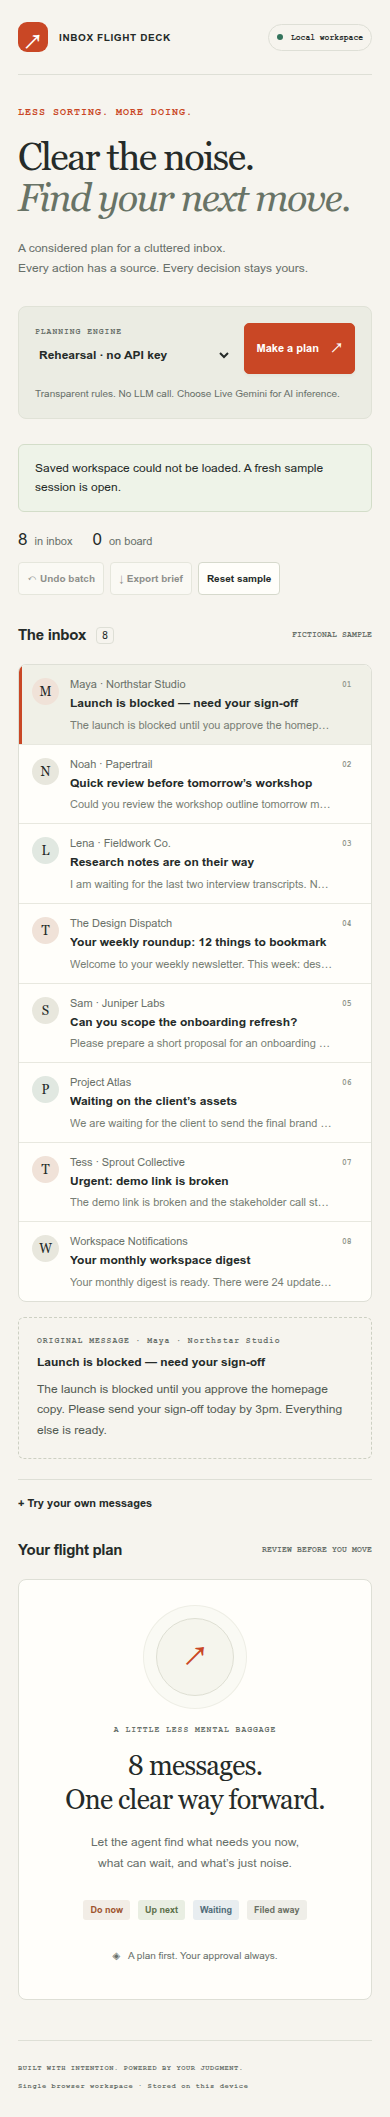
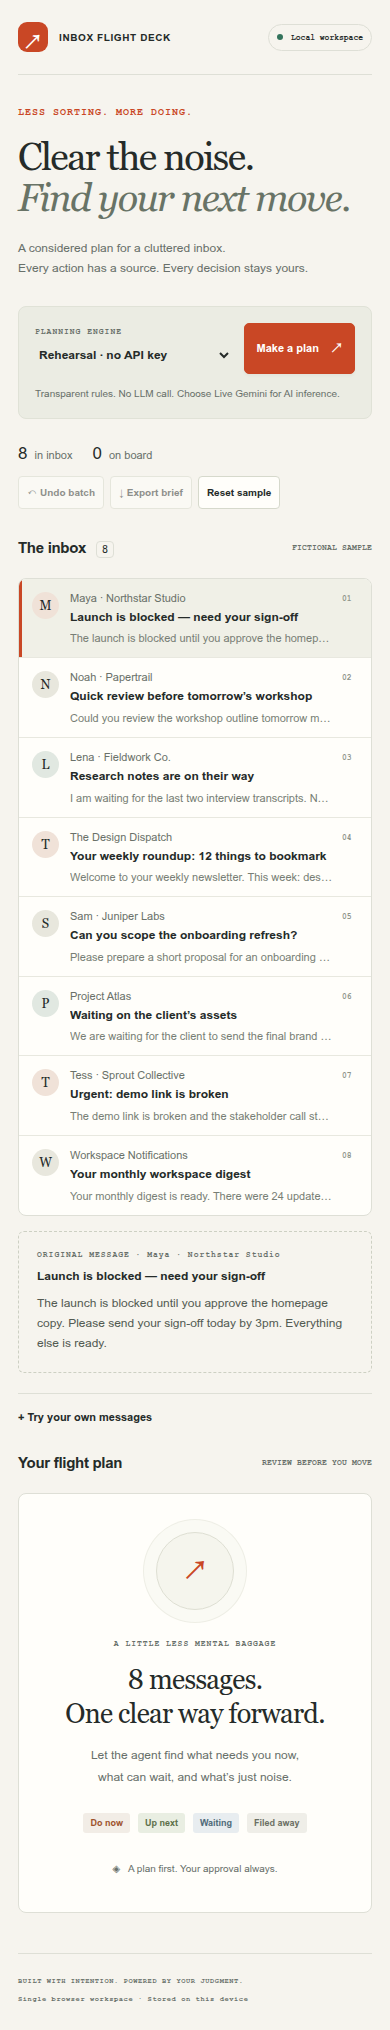
Prepare hackathon submission and public handoff

diff --git a/devpost/app-map.html b/devpost/app-map.html
@@ -1,0 +1,27 @@
+<!doctype html>
+<html lang="en">
+<head><meta charset="utf-8"><meta name="viewport" content="width=device-width, initial-scale=1"><title>Inbox Flight Deck — App Map</title>
+<style>
+:root{font-family:Arial,sans-serif;color:#252b29;background:#f6f4ee}*{box-sizing:border-box}body{max-width:980px;margin:0 auto;padding:45px 24px}h1{font-family:Georgia,serif;font-weight:400;font-size:43px;letter-spacing:-1px;margin:14px 0}h2{font-size:19px;margin:32px 0 15px}p,li{font-size:14px;line-height:1.8;color:#535d52}a{color:#b43d20}a:focus-visible,summary:focus-visible{outline:3px solid #c94725;outline-offset:3px}.label{font-family:monospace;letter-spacing:2px;font-size:11px;color:#c94725}.flow{display:flex;gap:14px;align-items:stretch;margin:28px 0}.node{flex:1;border:1px solid #d9ddd0;border-top:3px solid #c94725;border-radius:7px;background:#fffefa;padding:20px}.node strong{display:block;font-size:15px;line-height:1.5}.node span{display:block;font-size:12px;line-height:1.7;margin-top:8px;color:#626c5d}.arrow{align-self:center;font-size:25px;color:#c94725}details{border:1px solid #d9ddd0;border-radius:6px;padding:17px;margin:12px 0;background:#fffefa}summary{cursor:pointer;font-size:14px;font-weight:600}code{font-family:monospace;background:#e9ece1;padding:2px 5px;font-size:12px;overflow-wrap:anywhere}.note{border-left:3px solid #c94725;padding:12px 18px;background:#efeee5}footer{border-top:1px solid #d9ddd0;margin-top:35px;padding-top:15px;font-size:12px;color:#626c5d}@media(max-width:650px){.flow{flex-direction:column}.arrow{transform:rotate(90deg)}h1{font-size:34px}body{padding:25px 18px}}
+</style></head>
+<body>
+<div class="label">REFERENCE GUIDE / OFFLINE / NO TRACKING</div>
+<h1>From inbox noise to a chosen next step.</h1>
+<p>Inbox Flight Deck asks Gemini for a plan, verifies its source quotes, and lets a person choose which decisions become local board entries. Rehearsal uses clearly labeled rules. This map is a reference route; it does not claim an owner-led code tour was performed.</p>
+<div class="flow" role="img" aria-label="Request a plan, validate evidence, review and apply to local board">
+<div class="node"><strong>1. Request</strong><span>Click Make a plan.<br><code>App.tsx → makePlan</code><br>The current inbox goes to the local Node API.</span></div><span class="arrow" aria-hidden="true">→</span>
+<div class="node"><strong>2. Check</strong><span>Generate bounded decisions.<br><code>agent.ts → validatePlan</code><br>Reject wrong IDs, missing decisions or invented source quotes.</span></div><span class="arrow" aria-hidden="true">→</span>
+<div class="node"><strong>3. Choose &amp; apply</strong><span>Review, adjust and select.<br><code>board.ts → applyDecisions</code><br>Update the board and retain a snapshot for undo.</span></div>
+</div>
+<h2>Follow one action through three stops</h2>
+<details open><summary>Stop 1 — Visible input and feedback</summary><p>Open <a href="../src/App.tsx">src/App.tsx</a>, find <code>makePlan</code>. It submits the current inbox and selected engine to <code>/api/plan</code>, shows loading or error state, and populates review cards. Find <code>decisionCard</code> to see the source quote, checkbox and category dropdown.</p></details>
+<details><summary>Stop 2 — Model output earns a preview</summary><p>Open <a href="../src/agent.ts">src/agent.ts</a>, find <code>geminiPlan</code> and <code>validatePlan</code>. The former calls Google with a JSON schema; the latter checks every ID and exact body substring. <a href="../src/server.ts">src/server.ts</a> connects them to the API. The model cannot directly mutate the board or send mail.</p></details>
+<details><summary>Stop 3 — Selected decisions become a reversible transaction</summary><p>Open <a href="../src/board.ts">src/board.ts</a>, find <code>applyDecisions</code>. It validates decisions again, moves the selected source messages into board entries and saves the previous snapshot. <code>undoSession</code> restores it. The browser's <code>localStorage</code> keeps the session; <code>exportBrief</code> turns the reviewed board into Markdown.</p></details>
+<h2>To change this, start here</h2>
+<ul><li>Sample scenario: <a href="../src/sample.ts">src/sample.ts</a> → <code>sampleMessages</code>.</li><li>Visual identity or spacing: <a href="../src/style.css">src/style.css</a> → CSS variables and responsive rules.</li><li>AI behavior: <a href="../src/agent.ts">src/agent.ts</a> → system instruction and <code>responseJsonSchema</code>. Keep evidence checks.</li><li>Import limits or decision categories: <a href="../src/shared.ts">src/shared.ts</a> → shared schemas and <code>parseInbox</code>. Update UI and tests together.</li><li>Apply/undo behavior: <a href="../tests/board.test.ts">tests/board.test.ts</a> → subset and exact-restore checks.</li></ul>
+<h2>A practice to reuse</h2>
+<p class="note">Translate a product claim into an observable invariant. Here, “only approved changes happen” becomes “one deselected proposal stays in the inbox; undo restores the exact prior snapshot.” <a href="../tests/board.test.ts">Board tests</a> check the transaction, and <a href="../tests/browser.mjs">the production browser test</a> checks the same promise on screen. Exact quotes prove provenance; they do not prove a model's judgment is correct.</p>
+<h2>Run it again</h2>
+<p>From the repository: <code>npm ci</code>, <code>npm run build</code>, <code>npm start</code>. Open <a href="http://localhost:3000">localhost:3000</a>. No key is needed for rehearsal. Live mode requires a server-side Gemini key; see <a href="../README.md">README</a>.</p>
+<footer>Code snapshot: <code>851331b</code>. This guide can drift if source changes. All essential content works offline without scripts. No personal learner profile is included.</footer>
+</body></html>

diff --git a/SUBMISSION-KIT.md b/SUBMISSION-KIT.md
@@ -1,0 +1,86 @@
+# Submission kit — PW / Schultzenator
+
+Agent implementation handoff: **COMPLETE after the verification and publication evidence in WORK-STATE.md**. Submission itself remains with the owner/PW. Final video URL is intentionally owner-provided.
+
+## Where and when
+
+- Event: https://learn-ai-basics.devpost.com/
+- Official rules, checked at build start: https://learn-ai-basics.devpost.com/rules
+- Deadline: **Monday, October 26, 2026, 5:00 PM EDT = 21:00 UTC = 22:00 Warsaw**.
+- Account: **Schultzenator**. Join the hackathon if not already registered, then create/complete the project entry.
+- Public source: **https://github.com/Schultzenator/build-with-ai-basics-2026**
+- License: MIT.
+- Video URL: **[PW: REPLACE WITH PUBLIC YOUTUBE OR VIMEO LINK]**
+- App URL: local application; no hosted deployment claimed. Use repository as code link, not as a live demo URL.
+
+The authenticated submission form was not accessed in this session. The sections below map to common Devpost fields; follow the actual current labels and any required prompts. PW supplies truthful personal/organization details and exit-survey answers.
+
+## Project name
+
+Inbox Flight Deck
+
+## Elevator pitch
+
+An inbox triage agent that turns message chaos into a source-backed action plan you review, apply and undo.
+
+## About the project — paste-ready draft
+
+The owner explicitly requested this draft. Review it for accuracy before publishing, and add personal learning reflections in your own words.
+
+### Inspiration
+
+For an independent consultant, one inbox can hold a launch blocker, a request for next week, a dependency on a client, and a newsletter. The practical problem is deciding what deserves attention while keeping the original context close enough to check.
+
+### What it does
+
+Inbox Flight Deck turns sample or pasted messages into four lanes: Do now, Up next, Waiting, and Filed away. In live mode, a Gemini agent proposes a concrete next action and rationale for each message. Every proposal includes an exact source quote that the server verifies against the original message body.
+
+The person reviews the plan, changes categories if needed, and selects which decisions to apply. Those decisions move to a local action board; unselected messages stay in the inbox. The board survives a reload, exports a Markdown brief with evidence, and supports undoing the last batch. The proof of concept never sends replies or deletes mail.
+
+### How it was built
+
+The project started in a new empty folder during the submission window. Codex was the coding agent. The Devpost Learn Skill Pack was installed and used to structure scope, product requirements, technical specification, implementation slices, verification and shipping. Planning documents were committed before application code. The owner delegated concept selection and implementation; workflow adaptations are disclosed in the repository.
+
+The stack is TypeScript, Node.js, Express, React, Vite and Zod. A server-side Gemini call returns structured decisions. Validation rejects invented or duplicate message IDs, missing decisions and quotes that do not occur in the source. A separate deterministic rehearsal mode is visibly labeled and works without credentials. Source and fictional sample data were created for this project; standard dependencies and the required Skill Pack are disclosed.
+
+### Challenges
+
+One real integration issue was model availability: the initial Gemini 2.5 endpoint rejected new-user access and recommended Gemini 3.8 Flash. The model was changed and checked with a real API call before handoff. Another design constraint was separating an AI proposal from execution: selecting and applying a batch is a distinct human action, and the prior state remains available for undo.
+
+### Accomplishments
+
+The implemented loop runs from inbox to validated plan to selected board changes, export and undo. Verification covers strict typechecking, planner/API/transaction tests, a production Chrome journey, mobile layout and a real Gemini-backed browser journey. Exact results are documented in the repository rather than presented as performance or user-study claims.
+
+### What was learned
+
+**[OWNER: replace this paragraph with your own truthful reflection before submission. Suggested topics to address: which planning decision mattered; what you personally reviewed or changed; what the model-access issue taught you. Do not claim hands-on steps you did not perform.]**
+
+### What's next
+
+Possible extensions are a read-only mailbox connector, better handling of relative deadlines, and richer review controls. They are not part of the current proof of concept.
+
+## Built with
+
+TypeScript, Node.js, React, Express, Vite, Zod, Google Gemini API, Gemini 3.8 Flash, Codex, Devpost Learn Skill Pack, Playwright.
+
+## Testing instructions
+
+Requires Node.js 22+. From the public repository: `npm ci`, `npm run build`, `npm start`; open http://localhost:3000. Rehearsal works without credentials. Make a plan, inspect a quote, uncheck one proposal, apply seven decisions, export, reload, and undo. Configure server-side `GEMINI_API_KEY` in `.env` and restart to enable Live Gemini. Never paste a key into Devpost. The recorded video must show the working project because reviewers may judge without running the repository.
+
+## Images
+
+Use the actual app screenshots in `docs/screenshots/`. Recommended: `01-inbox.png`, `05-live-gemini.png`, and `03-board.png`. They contain fictional sample data. The screenshots are evidence, not a replacement for the video.
+
+## PW's final checklist
+
+- [ ] Open the repository logged out; verify planning docs and MIT license are visible.
+- [ ] Follow the three startup steps and perform the core loop yourself.
+- [ ] Read the workflow adaptations; confirm submission statements match your actual participation.
+- [ ] Replace the personal learning placeholder; complete all required form and exit-survey answers truthfully.
+- [ ] Record 1–3 minutes in English, below 3 minutes, showing the functioning app; see `DEMO.md`.
+- [ ] Upload publicly to YouTube or Vimeo and check playback logged out.
+- [ ] Replace the video placeholder above and paste the real video/repository URLs into Devpost.
+- [ ] Confirm entrant details and eligibility. Rules allow individuals, teams and organizations subject to country/conflict exclusions; this does not certify any particular organization. An organization/team must authorize its representative.
+- [ ] Submit before the deadline and retain confirmation. Keep source and video available through judging ending October 30, 2026 at 5:00 PM EDT.
+
+No Devpost entry, learner survey, organization representation, recording or final submission was completed by the agent.

diff --git a/README.md b/README.md
@@ -1,0 +1,90 @@
+# Inbox Flight Deck ↗
+
+**Clear the noise. Find your next move.**
+
+A small TypeScript/Node inbox triage agent for independent consultants. Turn mixed messages into a plan with **verbatim source evidence**, adjust the categories, apply only the decisions you choose, export a brief, and undo a whole batch.
+
+![Inbox Flight Deck running locally](docs/screenshots/01-inbox.png)
+
+## Run in three steps
+
+Prerequisite: **Node.js 22+**. From this repository:
+
+1. `npm ci`
+2. `npm run build`
+3. `npm start` — open **http://localhost:3000**.
+
+Choose **Make a plan**. Rehearsal mode needs no credentials and labels itself as deterministic rules, with no LLM call. The eight sample messages are fictional. This is a local app; no mailbox is connected and no emails are sent or deleted.
+
+## Use the real AI agent
+
+Create `.env` from [.env.example](.env.example), set `GEMINI_API_KEY` locally, and restart the server. Choose **Live Gemini** before requesting a plan. The default model is `gemini-3.8-flash`; override with `GEMINI_MODEL` if needed for your account. Messages go to Google only when you explicitly request a live plan. Credentials stay on the Node server, outside source control and the browser bundle. API usage is subject to your account's billing and limits.
+
+Real Gemini inference and the production browser journey were verified on 2026-10-23. See [verification evidence](docs/VERIFICATION.md). A live failure is shown explicitly; there is no silent fallback to rehearsal.
+
+## Try the complete loop
+
+1. Make a plan. Read the action, rationale and source quote; **Inspect original** shows the source message.
+2. Uncheck a decision and change a category. **Apply N decisions** moves only those messages to your local board.
+3. **Export brief**, reload, then **Undo batch**. The prior inbox and board return, including across reloads.
+
+**Try your own messages** accepts blank-line-separated text blocks; the first line is the subject. Limit: 20 messages, 6,000 characters each and 24,000 total including metadata. Import replaces the session and its undo history; non-sample sessions require confirmation. **Reset sample** restores the fictional inbox, with confirmation if it would replace your work.
+
+Browser storage holds this workspace on the same origin. Use one tab; this proof of concept does not synchronize concurrent tabs or devices. Storage errors are surfaced and the app can continue in memory. Original inbox text is retained with board decisions. Export or reset when done; this is not an encrypted mailbox client.
+
+## How the agent works
+
+```mermaid
+flowchart LR
+  A[Sample or pasted inbox] --> B[Node planner]
+  B --> C[Gemini structured plan]
+  B --> D[Labeled rehearsal rules]
+  C --> E[Validate IDs and exact quotes]
+  D --> E
+  E --> F[Human review and category edits]
+  F --> G[Apply selected local changes]
+  G --> H[Export or undo]
+```
+
+The model returns bounded JSON, one decision per message: `now`, `next`, `waiting`, or `archive`. The server rejects missing, repeated or invented IDs and quotes that do not occur exactly in the corresponding message body. The person can still disagree with the model: exact evidence establishes provenance, not correct judgment. The deterministic executor can only update the local board after selection.
+
+## Development and verification
+
+```sh
+npm run dev           # same URL, Vite middleware and Node API
+npm run check         # strict typecheck, unit/API tests, production build
+npm run test:browser  # production browser journey, after npm run build
+npm run test:live     # optional real Gemini call; requires server-side key
+```
+
+Browser checks use system Chrome at `/usr/bin/google-chrome`, or `CHROME_PATH`, or Playwright Chromium (`npx playwright install chromium`). To include a real API call in that journey on Linux/macOS: `LIVE_BROWSER=1 npm run test:browser`. Ordinary tests do not call external APIs. `PORT=3001 npm start` chooses another port.
+
+If a restricted runner has a broken temporary directory, prefix commands with `TMPDIR=/tmp` (Linux/macOS). Production `npm start` does not require tsx. For browser tests, `TEST_PORT` selects their isolated server port (default 4173).
+
+## Plan-first provenance
+
+Built from a newly created **empty folder on 2026-10-23**, during the hackathon submission window. No existing project code was reused. Devpost Learn Skill Pack was installed with `npx skills add challengepost/learn-ai-basics --all -y`; its canonical files are in [.agents/skills](.agents/skills), with upstream MIT notice. Planning was committed before application code.
+
+- [Scope](devpost/scope.md) · [PRD](devpost/prd.md) · [Technical spec](devpost/spec.md)
+- [Build checklist and revisions](devpost/checklist.md) · [Offline app map](devpost/app-map.html)
+- [Workflow provenance and adaptations](docs/WORKFLOW.md)
+- [Demo recording guide](DEMO.md) · [Submission kit for PW](SUBMISSION-KIT.md) · [Work state](WORK-STATE.md)
+
+The owner explicitly delegated concept selection and autonomous implementation. Interactive interview/review steps were adapted to that instruction and are documented honestly; no learner hands-on review, personal reflection or submitted video is claimed.
+
+## Install at the originally requested location
+
+This session's writable roots excluded `/home/schultze/Factory/HCTN/`. Source was created in a new empty workspace child directory instead. On the owner's machine, with write access and the destination absent:
+
+```sh
+git clone https://github.com/Schultzenator/build-with-ai-basics-2026.git /home/schultze/Factory/HCTN/build-with-ai-basics-2026
+cd /home/schultze/Factory/HCTN/build-with-ai-basics-2026
+```
+
+Then follow the three startup steps. Cloning preserves the original planning-first history; it does not reuse an old project.
+
+## Attribution and license
+
+New application code, fictional data, CSS and SVG were created for this entry with Codex. Standard dependencies are recorded in `package-lock.json`; their respective licenses apply. The pre-existing **Devpost Learn Skill Pack** is the required development curriculum, credited in [THIRD-PARTY-NOTICES.md](THIRD-PARTY-NOTICES.md). No external images, fonts, music or existing application code are included.
+
+Application: [MIT](LICENSE).

diff --git a/docs/VERIFICATION.md b/docs/VERIFICATION.md
@@ -1,0 +1,48 @@
+# Verification evidence
+
+Verified on **2026-10-23**, Node **v22.22.1**, Linux, production build in system Chrome. Commands below were actually run; no coverage percentage or user-impact measurement is claimed.
+
+| Check | Result | Evidence |
+| --- | --- | --- |
+| `npm run typecheck` | PASS | Strict TypeScript check for application and TypeScript tests |
+| `npm test` | PASS, 13 tests | `tests/agent.test.ts`, `tests/api.test.ts`, `tests/board.test.ts` |
+| `npm run build` | PASS | Vite client and compiled Node server |
+| `npm run test:browser` | PASS | Production server plus Chrome, no external provider required |
+| `GEMINI_MODEL=gemini-3.8-flash npm run test:live` | PASS | Eight decisions, all exact quotes validated, 10,995 ms in the recorded smoke run |
+| `LIVE_BROWSER=1 npm run test:browser` | PASS | Real Gemini request from browser → preview → apply eight → undo |
+| npm install audit | PASS | 0 reported vulnerabilities at install time |
+
+The restricted runner required `TMPDIR=/tmp` for tools using temporary files. A pre-install typecheck attempt failed because dependencies were still downloading; verification was repeated after installation. The original Gemini 2.5 endpoint returned 404 with a recommendation to use 3.8 Flash. The default was updated, then tested successfully; neither error was hidden by rehearsal output.
+
+## Unit and API coverage
+
+- Rehearsal classifications and exact source quotes.
+- Invalid, missing, repeated and invented message IDs/evidence; malformed decisions.
+- Text import boundaries, duplicate IDs and input limits.
+- Structured Gemini request and real-shaped provider response parsing with mocked network.
+- Provider quota, timeout/network and malformed/incomplete output errors.
+- API health without key leakage; JSON, size, local-host and origin checks.
+- Provider failure stays an error and never silently returns rehearsal data.
+- Selected transaction, untouched unselected messages and exact undo.
+- Reloadable session and undo history; modified categories; stale/invalid actions.
+- Corrupt saved data rejection and Markdown brief contents/escaping.
+
+## Browser journey
+
+The production Chrome run verifies source inspection, eight preview cards, category editing, excluding a newsletter, applying seven decisions, 1/7 inbox/board counts, persistence after reload, a real Markdown download, undo restoring 8/0, applying everything, empty state, reset confirmation, pasted text, escaped HTML, input/provider failures and corrupt storage recovery. At **390px**, document width does not exceed viewport width. No page JavaScript errors were observed.
+
+The optional live browser run additionally selects Live Gemini, waits for eight source-backed decisions, verifies the live engine badge, applies all eight, and undoes to restore the inbox. Live model output and timing can vary between runs.
+
+## Visual evidence
+
+- [Initial inbox](screenshots/01-inbox.png)
+- [Rehearsal plan](screenshots/02-plan.png)
+- [Reviewed action board](screenshots/03-board.png)
+- [Mobile layout](screenshots/04-mobile.png)
+- [Actual Gemini plan](screenshots/05-live-gemini.png)
+
+Screenshots show fictional data. They are generated by the browser checks and visually inspected; they do not replace the required owner-recorded video. See WORK-STATE.md for source/publication and clean-install verification.
+
+## Known limits
+
+Single-user local browser workspace; no concurrent-tab synchronization or mailbox connector. Exact-quote validation establishes provenance, not semantic correctness. Rehearsal is deterministic rules, not an LLM. Provider availability/limits depend on the configured account. Owner/PW still needs to review, record and submit; no human learning or acceptance is inferred from automated tests.

diff --git a/DEMO.md b/DEMO.md
@@ -1,0 +1,37 @@
+# Demo recording guide — owner/PW
+
+Target: **2:00–2:30**, English screen recording, 1080p, with the functioning app visible. Upload publicly to YouTube or Vimeo. The video has not been recorded by the agent.
+
+## Setup
+
+Start with the README's three commands. Open http://localhost:3000 in Chrome. Use a clean browser window, hide credentials/notifications, and reset the sample. At 1440px, 100% zoom is suitable; scroll to show evidence and actions clearly. Optionally record at 1280×900 with 110% zoom for larger text.
+
+For a real AI demo, configure the server-side Gemini key and select **Live Gemini**. Test once immediately before recording. Never display `.env`, terminal environment values, or API credentials. Recording in rehearsal is useful for practice, but it must be described as rules, not as live AI. Prefer showing live inference in the final hackathon video.
+
+## Shot list
+
+| Time | Show on screen | Point to explain in your own words |
+| --- | --- | --- |
+| 0:00–0:15 | Sample inbox and app name | Specific audience: a solo consultant juggling blockers, requests and newsletters. |
+| 0:15–0:35 | Select Live Gemini; click Make a plan; show actual loading and result | Agent proposes one decision per message. If trimming waiting time, mark the cut honestly. |
+| 0:35–1:00 | An urgent action, quote, then Inspect original | Every source quote is checked against the original; judgment still belongs to the person. |
+| 1:00–1:25 | Uncheck the newsletter; optionally change one category; Apply 7 decisions | Selected decisions move to the board, and one message stays in the inbox. |
+| 1:25–1:45 | Board lanes; Export brief; open downloaded Markdown | A real artifact with actions, reasons and evidence. |
+| 1:45–2:05 | Reload, then Undo batch; counts return to 8/0 | Stored workspace and reversible batch execution. |
+| 2:05–2:25 | Public repo, planning docs and app map | New project, plan-first workflow, what you personally learned. |
+
+This is a shot list, not a claim about the owner's learning. Use your own account of the process and what changed your thinking.
+
+## Recording checks
+
+- Keep below 3 minutes; aim for at least 1 minute as requested by the event overview.
+- Show working behavior rather than a slide-only pitch.
+- Keep the engine badge visible when discussing AI. Do not present rehearsal as LLM output.
+- Make small text legible; pause on the source quote and before/after counts.
+- Use no third-party music or assets without permission.
+- Open the uploaded YouTube/Vimeo link in a logged-out window and verify it is publicly visible and playable.
+- Paste its URL into `SUBMISSION-KIT.md` and Devpost. The repository URL does not replace the video.
+
+## If live inference fails during recording
+
+The app displays a readable error without changing the inbox. Check quota, model access and network. You can explicitly switch to rehearsal to continue demonstrating UI behavior, but label that part accurately and include working live inference in the final recording if pitching the LLM agent.

diff --git a/docs/WORKFLOW.md b/docs/WORKFLOW.md
@@ -1,0 +1,27 @@
+# Devpost Learn workflow provenance
+
+## Sources and order
+
+- Rules checked at the beginning: https://learn-ai-basics.devpost.com/rules .
+- Required pack: https://github.com/challengepost/learn-ai-basics . Revision read at start: `a0f065781873e8a7ed9a9a705a8dafa6a0810439`.
+- Installed command: `npx skills add challengepost/learn-ai-basics --all -y` (the restricted runner needed `TMPDIR=/tmp`). Installed skills and templates are retained in `.agents/skills` with their upstream MIT notice; `skills-lock.json` records content hashes.
+- New empty project directory created during the submission window; no previous application source copied.
+- First commit `2bf2172`: `.gitignore`, substantive `devpost/scope.md`, `prd.md`, `spec.md`, `checklist.md` and initial work state. No application code.
+- Subsequent commits implement usable slices, then verification and shipping artifacts.
+
+## Skill stages used
+
+1. `1-start`: folder check, credential/profile ignores, owner-request context. No coding-experience or learning claims invented.
+2. `2-scope`: template used for audience, distinctive kernel, core loop, proof, boundary and cuts.
+3. `3-prd`: product journey, layout, source review, selection, error/empty/storage states and checkable outcomes, following the PRD guide.
+4. `4-spec`: system journey, TS/Node stack, data model, external API, failure behavior and verification, following spec-patterns and self-review.
+5. `5-build`: ordered end-to-end slices, mechanical verification and commits, revisions, app map and a project-grounded reference route.
+6. `6-ship`: readiness check, source/history audit, MIT repository, demo recording instructions, submission handoff.
+
+## Explicit adaptations
+
+The task explicitly authorized the agent to select the concept, build autonomously, create a public repository and prepare a complete submission draft. This takes precedence over the pack's default interactive interviews, repeated planning reviews, learner checkpoints and restriction on drafting public submission copy. Planning frontmatter records **delegated authority**, not fabricated responses to an interview. Personal reflection remains owner-written.
+
+The owner did not perform hands-on review, a learning exercise, a recording or a submission during this build session. Those are not marked completed. This is an autonomous implementation using the pack's planning/build/shipping structure, not a claim that the unmodified learner-led curriculum was completed interactively. PW should review this disclosure and ensure the final submission accurately describes participation. Eligibility is determined by Devpost.
+
+The requested HCTN destination was outside the allowed writable roots. A new empty workspace child folder was used, and README supplies a safe clone command to the requested destination. That filesystem requirement remains an owner-side relocation step.

diff --git a/WORK-STATE.md b/WORK-STATE.md
@@ -1,6 +1,6 @@
 # Work state
 
-Session: 2026-10-23. Status: APPLICATION VERIFIED; SHIPPING NEXT.
+Session: 2026-10-23. Status: READY TO PUBLISH — APPLICATION AND HANDOFF ARTIFACTS VERIFIED.
 
 - Verified official Devpost rules at session start: https://learn-ai-basics.devpost.com/rules . Submission window September 22–October 26, 2026, ending 17:00 EDT (21:00 UTC / 22:00 Warsaw on October 26). Public source, planning docs and working video required. Individuals, teams and organizations allowed subject to listed exclusions; no blanket PSNET eligibility certification is made.
 - Started from a newly created empty `build-with-ai-basics-2026/` in the provided workspace; no old application code reused.
@@ -14,3 +14,5 @@ Next: implement slice 1, verify and commit; slice 2; documentation, audit and pu
 Slice 1: typecheck, 8 planner/API tests and production build pass. Skill Pack installed successfully after setting TMPDIR=/tmp for this restricted runner. Current Gemini 2.5 endpoint rejects new-user access (404); investigating the provider-recommended current model before choosing the final default. No silent fallback implemented.
 
 Slice 2: strict typecheck, 13 unit/API tests and production build pass. Production Chrome journey passed: exact source view, category edit, subset apply, persisted reload, Markdown download, undo, clear inbox, reset confirmation, text import and escaping, invalid input/provider error, 390px no-overflow layout and corrupt storage recovery. A separate LIVE_BROWSER=1 run passed the real Gemini 3.8 plan → board → undo journey. Screenshots contain only fictional sample data.
+
+Shipping preparation: README with three-step startup, MIT application license and upstream Skill Pack attribution, demo shot list, complete submission draft and owner video/reflection placeholders, verification report, workflow disclosure and offline app map are present. Map opens with JavaScript disabled; local documentation links pass. Secret audit reviewed intended files and all commits: actual environment credential absent, `.env` and learner profile excluded. Anonymous public source verification and clean-clone startup follow publication.

diff --git a/devpost/checklist.md b/devpost/checklist.md
@@ -43,8 +43,10 @@ Build mode: fast, adapted to explicit owner delegation. Agent verification repla
 - [ ] Owner confirms ready after recording — pending owner action, separate from agent implementation completion.
 
 ## Code Tour and App Map
-- [ ] Reference route and concrete verification lesson documented in `devpost/app-map.html`.
+- [x] Reference route and concrete verification lesson documented in `devpost/app-map.html`.
 - [ ] Optional owner learning reflection — not performed; no reflection authored on their behalf.
+
+Activity and evidence: reference-only app map generated from code snapshot 851331b; opened in Chrome with JavaScript disabled. Route: App.tsx makePlan → agent.ts validatePlan → board.ts applyDecisions/undoSession. Concrete practice: convert “only selected decisions apply” into a subset/undo invariant and test it in pure functions and the browser. No interactive tour, edit, or learner reflection was performed.
 
 ## Revisions
 

diff --git a/THIRD-PARTY-NOTICES.md b/THIRD-PARTY-NOTICES.md
@@ -1,0 +1,13 @@
+# Third-party notices
+
+## Devpost Learn Skill Pack
+
+Source: https://github.com/challengepost/learn-ai-basics
+
+The installed curriculum in `.agents/skills/1-start` through `6-ship` is pre-existing required development material, not original application code. Upstream revision read at build start: `a0f065781873e8a7ed9a9a705a8dafa6a0810439`; installer content identities are recorded in `skills-lock.json`.
+
+MIT License, Copyright (c) 2026 Devpost. Full license: [.agents/skills/LICENSE](.agents/skills/LICENSE).
+
+## Runtime and development dependencies
+
+React, React DOM, Express, Zod, TypeScript, Vite, tsx, Playwright and type declarations are standard packages installed from npm. Exact versions and transitive packages are in `package-lock.json`; each package's own license applies. They are dependencies, not an earlier hackathon project. Native system fonts are used; the app contains no downloaded font or stock image assets.
